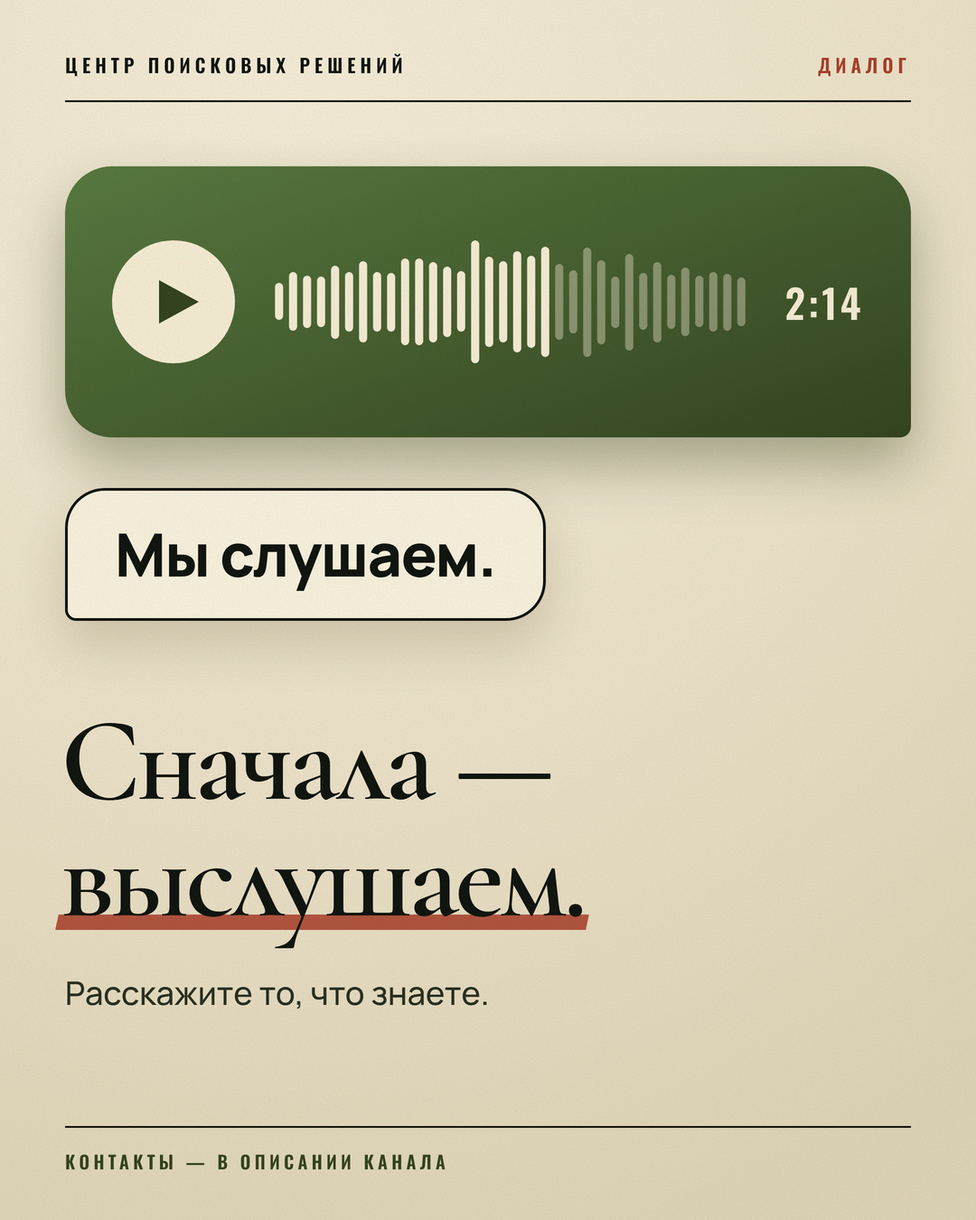
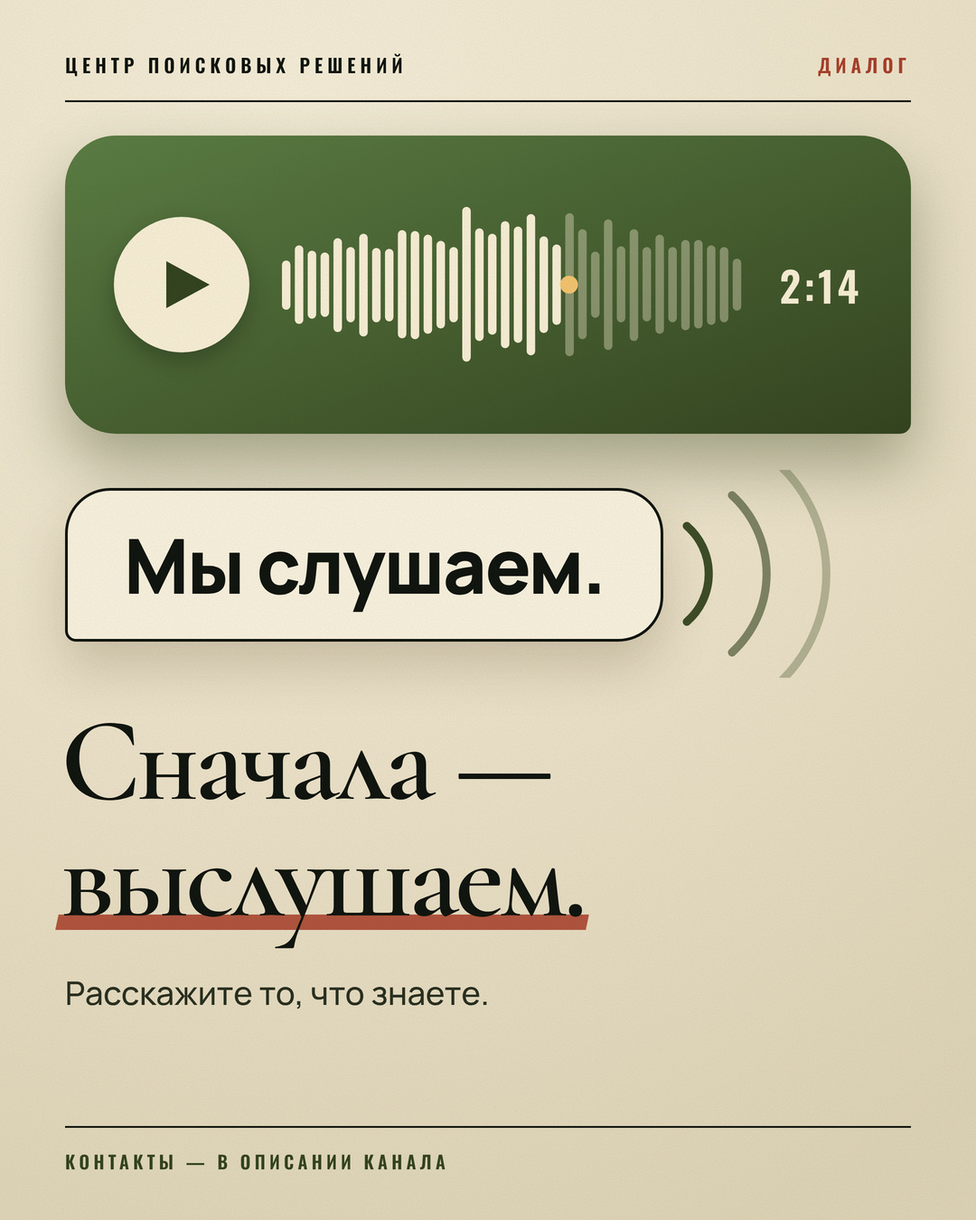
Rework phone/route/listen post heroes: full cards, edge-stopped arrows, voice message with listening waves
Claude-Session: https://claude.ai/code/session_01NuJDMPrCwZ36H1xaabvcxP

diff --git a/psr-promo/src/paper_route.html b/psr-promo/src/paper_route.html
@@ -15,16 +15,10 @@ h1 u:after{content:"";position:absolute;left:-4px;right:-4px;bottom:8px;height:1
 .tex{position:absolute;inset:0;mix-blend-mode:multiply;opacity:.5;pointer-events:none}
 .card{position:absolute;background:var(--card);box-shadow:0 2px 0 rgba(255,255,255,.7) inset,0 26px 60px rgba(70,56,20,.22),0 3px 8px rgba(70,56,20,.16)}
 
-svg.rt{position:absolute;left:0;top:110px;width:1080px;height:660px}
+svg.rt{position:absolute;left:0;top:128px;width:1080px;height:680px}
 </style></head><body><div class="post" id="post">
 <div class="top"><span>ЦЕНТР ПОИСКОВЫХ РЕШЕНИЙ</span><span>МАРШРУТ</span></div>
-<svg class="rt" viewBox="0 0 1080 660"><defs>
-<filter id="st" x="-10%" y="-10%" width="120%" height="120%"><feTurbulence type="fractalNoise" baseFrequency=".035" numOctaves="2" seed="2" result="w"/><feDisplacementMap in="SourceGraphic" in2="w" scale="5" result="d"/><feTurbulence type="fractalNoise" baseFrequency=".8" numOctaves="2" seed="9" result="n"/><feColorMatrix in="n" type="matrix" values="0 0 0 0 0  0 0 0 0 0  0 0 0 0 0  0 0 0 -9 6.4" result="m"/><feComposite in="d" in2="m" operator="in"/></filter>
-<marker id="ar" markerWidth="14" markerHeight="14" refX="10" refY="7" orient="auto"><path d="M1 1l11 6-11 6" fill="none" stroke="#34441f" stroke-width="2.6" stroke-linecap="round" stroke-linejoin="round"/></marker>
-<path id="c1" d="M0 0m-108 0a108 108 0 1 1 216 0"/></defs>
-<path d="M330 120C460 90 400 250 440 290" fill="none" stroke="#34441f" stroke-width="5" stroke-dasharray="2 16" stroke-linecap="round" marker-end="url(#ar)"/>
-<path d="M690 330C790 330 760 440 800 470" fill="none" stroke="#34441f" stroke-width="5" stroke-dasharray="2 16" stroke-linecap="round" marker-end="url(#ar)"/>
-<g filter="url(#st)"><g transform="translate(190 180) rotate(-9)" fill="none" stroke="#34441f"><circle r="150" stroke-width="9"/><circle r="132" stroke-width="3"/><circle r="70" stroke-width="3"/><text font-family="Oswald" font-weight="600" font-size="23" letter-spacing="3" fill="#34441f" stroke="none" text-anchor="middle"><textPath href="#c1" startOffset="50%">КОМАНДОВАНИЕ ЧАСТИ</textPath></text><text y="32" text-anchor="middle" font-family="Cormorant Garamond" font-weight="700" font-size="108" fill="#34441f" stroke="none">1</text><text y="116" text-anchor="middle" font-family="Oswald" font-size="24" letter-spacing="8" fill="#34441f" stroke="none">★ ★ ★</text></g><g transform="translate(560 400) rotate(6)" fill="none" stroke="#34441f"><circle r="150" stroke-width="9"/><circle r="132" stroke-width="3"/><circle r="70" stroke-width="3"/><text font-family="Oswald" font-weight="600" font-size="23" letter-spacing="3" fill="#34441f" stroke="none" text-anchor="middle"><textPath href="#c1" startOffset="50%">ВОЕННЫЙ КОМИССАРИАТ</textPath></text><text y="32" text-anchor="middle" font-family="Cormorant Garamond" font-weight="700" font-size="108" fill="#34441f" stroke="none">2</text><text y="116" text-anchor="middle" font-family="Oswald" font-size="24" letter-spacing="8" fill="#34441f" stroke="none">★ ★ ★</text></g><g transform="translate(884 548) rotate(-5)" fill="none" stroke="#a8412b"><circle r="150" stroke-width="9"/><circle r="132" stroke-width="3"/><circle r="70" stroke-width="3"/><text font-family="Oswald" font-weight="600" font-size="23" letter-spacing="3" fill="#a8412b" stroke="none" text-anchor="middle"><textPath href="#c1" startOffset="50%">КОПИИ — СЕБЕ</textPath></text><text y="32" text-anchor="middle" font-family="Cormorant Garamond" font-weight="700" font-size="108" fill="#a8412b" stroke="none">3</text><text y="116" text-anchor="middle" font-family="Oswald" font-size="24" letter-spacing="8" fill="#a8412b" stroke="none">★ ★ ★</text></g></g></svg>
+<svg class="rt" viewBox="0 0 1080 680"><defs><filter id="st" x="-10%" y="-10%" width="120%" height="120%"><feTurbulence type="fractalNoise" baseFrequency=".035" numOctaves="2" seed="2" result="w"/><feDisplacementMap in="SourceGraphic" in2="w" scale="5" result="d"/><feTurbulence type="fractalNoise" baseFrequency=".8" numOctaves="2" seed="9" result="n"/><feColorMatrix in="n" type="matrix" values="0 0 0 0 0  0 0 0 0 0  0 0 0 0 0  0 0 0 -9 6.4" result="m"/><feComposite in="d" in2="m" operator="in"/></filter><path id="c1" d="M0 0m-100 0a100 100 0 1 1 200 0"/></defs><path d="M340 227Q362 276 392 262" fill="none" stroke="#34441f" stroke-width="5.5" stroke-dasharray="1 15" stroke-linecap="round"/><path d="M410 253L393 277L381 252Z" fill="#34441f"/><path d="M712 385Q702 423 714 408" fill="none" stroke="#34441f" stroke-width="5.5" stroke-dasharray="1 15" stroke-linecap="round"/><path d="M727 392L721 421L699 404Z" fill="#34441f"/><g filter="url(#st)"><g transform="translate(190 172) rotate(-8)" fill="none" stroke="#34441f"><circle r="140" stroke-width="9"/><circle r="123" stroke-width="3"/><circle r="64" stroke-width="3"/><text font-family="Oswald" font-weight="600" font-size="23" letter-spacing="3" fill="#34441f" stroke="none" text-anchor="middle"><textPath href="#c1" startOffset="50%">КОМАНДОВАНИЕ ЧАСТИ</textPath></text><text y="32" text-anchor="middle" font-family="Cormorant Garamond" font-weight="700" font-size="104" fill="#34441f" stroke="none">1</text><text y="108" text-anchor="middle" font-family="Oswald" font-size="22" letter-spacing="8" fill="#34441f" stroke="none">★ ★ ★</text></g><g transform="translate(570 312) rotate(5)" fill="none" stroke="#34441f"><circle r="140" stroke-width="9"/><circle r="123" stroke-width="3"/><circle r="64" stroke-width="3"/><text font-family="Oswald" font-weight="600" font-size="23" letter-spacing="3" fill="#34441f" stroke="none" text-anchor="middle"><textPath href="#c1" startOffset="50%">ВОЕННЫЙ КОМИССАРИАТ</textPath></text><text y="32" text-anchor="middle" font-family="Cormorant Garamond" font-weight="700" font-size="104" fill="#34441f" stroke="none">2</text><text y="108" text-anchor="middle" font-family="Oswald" font-size="22" letter-spacing="8" fill="#34441f" stroke="none">★ ★ ★</text></g><g transform="translate(878 470) rotate(-5)" fill="none" stroke="#a8412b"><circle r="140" stroke-width="9"/><circle r="123" stroke-width="3"/><circle r="64" stroke-width="3"/><text font-family="Oswald" font-weight="600" font-size="23" letter-spacing="3" fill="#a8412b" stroke="none" text-anchor="middle"><textPath href="#c1" startOffset="50%">КОПИИ — СЕБЕ</textPath></text><text y="32" text-anchor="middle" font-family="Cormorant Garamond" font-weight="700" font-size="104" fill="#a8412b" stroke="none">3</text><text y="108" text-anchor="middle" font-family="Oswald" font-size="22" letter-spacing="8" fill="#a8412b" stroke="none">★ ★ ★</text></g></g></svg>
 <h1><span>Официальный</span><span><u>путь.</u></span></h1>
 <div class="sub">Письменно — и копию оставьте себе.</div>
 <div class="foot">КОНТАКТЫ — В ОПИСАНИИ КАНАЛА</div><svg class="tex" width="1080" height="1350"><filter id="n"><feTurbulence type="fractalNoise" baseFrequency=".75" numOctaves="3" seed="3"/><feColorMatrix values="0 0 0 0 .55  0 0 0 0 .5  0 0 0 0 .4  0 0 0 .5 -.08"/></filter><rect width="100%" height="100%" filter="url(#n)"/></svg></div></body></html>

diff --git a/psr-promo/src/paper_phone.html b/psr-promo/src/paper_phone.html
@@ -15,21 +15,20 @@ h1 u:after{content:"";position:absolute;left:-4px;right:-4px;bottom:8px;height:1
 .tex{position:absolute;inset:0;mix-blend-mode:multiply;opacity:.5;pointer-events:none}
 .card{position:absolute;background:var(--card);box-shadow:0 2px 0 rgba(255,255,255,.7) inset,0 26px 60px rgba(70,56,20,.22),0 3px 8px rgba(70,56,20,.16)}
 
-.fan{position:absolute;left:0;top:0;width:1080px;height:780px}
-.c{position:absolute;top:196px;width:340px;height:480px;transform-origin:50% 100%;border-radius:22px;background:var(--card);box-shadow:0 2px 0 rgba(255,255,255,.8) inset,0 30px 60px rgba(70,56,20,.24),0 4px 10px rgba(70,56,20,.16);padding:30px;overflow:hidden}
-.c .t{position:absolute;left:28px;top:26px;font:600 24px Oswald;letter-spacing:.24em;color:var(--olive)}
-.c svg{width:100%;margin-top:46px}
-.c1{left:60px;top:218px;transform:rotate(-8deg)}.c2{left:267px;top:196px;transform:rotate(-2.5deg)}.c3{left:473px;top:196px;transform:rotate(2.5deg)}.c4{left:680px;top:218px;transform:rotate(8deg)}
-.tp{position:absolute;left:50%;top:178px;width:130px;height:38px;margin-left:-65px;background:rgba(214,196,142,.75);transform:rotate(-3deg);z-index:9}
+.k{position:absolute;width:440px;height:296px;border-radius:16px;padding:24px 28px}
+.k .t{font:600 24px Oswald;letter-spacing:.26em;color:var(--olive)}
+.k1{left:72px;top:146px;transform:rotate(-1.8deg)}.k2{left:568px;top:136px;transform:rotate(1.6deg)}
+.k3{left:72px;top:462px;transform:rotate(1.4deg)}.k4{left:568px;top:452px;transform:rotate(-1.5deg)}
+.k svg{position:absolute;left:0;top:0;width:100%;height:100%}
+.tp{position:absolute;width:128px;height:36px;background:rgba(214,196,142,.78);z-index:9}
 </style></head><body><div class="post" id="post">
 <div class="top"><span>ЦЕНТР ПОИСКОВЫХ РЕШЕНИЙ</span><span>ПАМЯТКА</span></div>
-<div class="fan">
-<div class="c c1"><svg viewBox="0 0 312 380"><circle cx="156" cy="150" r="104" fill="none" stroke="#11150f" stroke-width="8"/><path d="M156 84v70l44 28" fill="none" stroke="#11150f" stroke-width="9" stroke-linecap="round"/><circle cx="156" cy="150" r="124" fill="none" stroke="#a8412b" stroke-width="5" stroke-dasharray="3 14" stroke-linecap="round"/></svg><div class="t">ВИЗИТ</div></div>
-<div class="c c2"><svg viewBox="0 0 312 380"><circle cx="64" cy="124" r="44" fill="#34441f"/><path d="M52 104l34 20-34 20z" fill="#f4ecd4"/><g id="wv"></g></svg><div class="t">ГОЛОСОВЫЕ</div></div>
-<div class="c c3"><svg viewBox="0 0 312 380"><rect x="0" y="40" width="312" height="250" rx="12" fill="#cfd9b8"/><circle cx="226" cy="108" r="26" fill="#f2c46f"/><path d="M0 290V200l70-60 60 50 60-76 122 100v76z" fill="#34441f"/></svg><div class="t">ФОТО</div></div>
-<div class="c c4"><svg viewBox="0 0 312 380"><g fill="#34441f"><circle cx="46" cy="70" r="30"/><circle cx="46" cy="160" r="30"/><circle cx="46" cy="250" r="30"/></g><g fill="#11150f"><rect x="96" y="56" width="190" height="16" rx="8"/><rect x="96" y="146" width="150" height="16" rx="8"/><rect x="96" y="236" width="176" height="16" rx="8"/></g><g fill="#a9a58a"><rect x="96" y="84" width="110" height="12" rx="6"/><rect x="96" y="174" width="90" height="12" rx="6"/><rect x="96" y="264" width="120" height="12" rx="6"/></g></svg><div class="t">КОНТАКТЫ</div></div>
-<div class="tp"></div></div>
-<script>let h="",s=11;const r=()=>((s=(s*1664525+1013904223)>>>0)/4294967296);for(let i=0;i<22;i++){const x=22+i*13.2,a=18+Math.abs(Math.sin(i*.55))*70*(.5+r()*.8);h+=`<rect x="${x}" y="${(250-a/2).toFixed(0)}" width="7" height="${a.toFixed(0)}" rx="3.5" fill="#11150f"/>`}document.getElementById("wv").innerHTML=h;</script>
+<div class="card k k1"><div class="t">ВИЗИТ</div><svg viewBox="0 0 440 296"><circle cx="220" cy="168" r="86" fill="none" stroke="#11150f" stroke-width="8"/><path d="M220 112v58l38 24" fill="none" stroke="#11150f" stroke-width="8" stroke-linecap="round"/><circle cx="220" cy="168" r="108" fill="none" stroke="#a8412b" stroke-width="5" stroke-dasharray="2 14" stroke-linecap="round"/></svg></div>
+<div class="card k k2"><div class="t">ГОЛОСОВЫЕ</div><svg viewBox="0 0 440 296"><circle cx="86" cy="170" r="42" fill="#34441f"/><path d="M76 150l32 20-32 20z" fill="#f4ecd4"/><g id="wv"></g></svg></div>
+<div class="card k k3"><div class="t">ФОТО</div><svg viewBox="0 0 440 296"><rect x="28" y="64" width="384" height="204" rx="6" fill="#fffaf0" stroke="rgba(17,21,15,.12)"/><rect x="42" y="78" width="356" height="176" fill="#cbd8b4"/><circle cx="318" cy="128" r="22" fill="#f2c46f"/><path d="M42 254V186l80-62 70 54 66-82 140 112v46z" fill="#34441f"/></svg></div>
+<div class="card k k4"><div class="t">КОНТАКТЫ</div><svg viewBox="0 0 440 296"><g fill="#34441f"><circle cx="64" cy="124" r="26"/><circle cx="64" cy="190" r="26"/><circle cx="64" cy="256" r="26"/></g><g fill="#11150f"><rect x="110" y="112" width="250" height="16" rx="8"/><rect x="110" y="178" width="200" height="16" rx="8"/><rect x="110" y="244" width="230" height="16" rx="8"/></g><g fill="#aaa68c"><rect x="110" y="136" width="140" height="11" rx="5.5"/><rect x="110" y="202" width="110" height="11" rx="5.5"/><rect x="110" y="268" width="150" height="11" rx="5.5"/></g></svg></div>
+<div class="tp" style="left:240px;top:448px;transform:rotate(-3deg)"></div><div class="tp" style="left:748px;top:122px;transform:rotate(4deg)"></div>
+<script>let h="",s=11;const r=()=>((s=(s*1664525+1013904223)>>>0)/4294967296);for(let i=0;i<24;i++){const x=150+i*11.4,a=20+Math.abs(Math.sin(i*.5))*84*(.45+r()*.7);h+=`<rect x="${x.toFixed(0)}" y="${(170-a/2).toFixed(0)}" width="6.4" height="${a.toFixed(0)}" rx="3.2" fill="#11150f"/>`}document.getElementById("wv").innerHTML=h;</script>
 <h1><span>Следы</span><span><u>в телефоне.</u></span></h1>
 <div class="sub">Сохраните, пока ничего не удалилось.</div>
 <div class="foot">КОНТАКТЫ — В ОПИСАНИИ КАНАЛА</div><svg class="tex" width="1080" height="1350"><filter id="n"><feTurbulence type="fractalNoise" baseFrequency=".75" numOctaves="3" seed="3"/><feColorMatrix values="0 0 0 0 .55  0 0 0 0 .5  0 0 0 0 .4  0 0 0 .5 -.08"/></filter><rect width="100%" height="100%" filter="url(#n)"/></svg></div></body></html>

diff --git a/psr-promo/src/paper_listen.html b/psr-promo/src/paper_listen.html
@@ -15,17 +15,19 @@ h1 u:after{content:"";position:absolute;left:-4px;right:-4px;bottom:8px;height:1
 .tex{position:absolute;inset:0;mix-blend-mode:multiply;opacity:.5;pointer-events:none}
 .card{position:absolute;background:var(--card);box-shadow:0 2px 0 rgba(255,255,255,.7) inset,0 26px 60px rgba(70,56,20,.22),0 3px 8px rgba(70,56,20,.16)}
 
-.v{left:72px;right:72px;top:184px;height:300px;border-radius:52px 52px 12px 52px;background:linear-gradient(160deg,#587a41,#34441f);box-shadow:0 30px 60px rgba(52,68,31,.38);display:flex;align-items:center;gap:36px;padding:0 52px}
-.pl{flex:none;width:136px;height:136px;border-radius:50%;background:#f4ecd4;display:grid;place-items:center}
-.pl svg{width:56px;height:56px;margin-left:8px}
-.wf{flex:1;height:170px}
-.du{flex:none;font:600 44px Oswald;letter-spacing:.08em;color:#f4ecd4}
-.rp{left:72px;top:540px;padding:34px 52px;border-radius:44px 44px 44px 12px;background:var(--card);border:3px solid var(--ink);font:800 66px/1.1 Manrope;letter-spacing:-.02em;box-shadow:0 26px 54px rgba(70,56,20,.18)}
+.v{left:72px;right:72px;top:150px;height:330px;border-radius:56px 56px 12px 56px;background:linear-gradient(160deg,#5b7e44,#34441f);box-shadow:0 34px 70px rgba(52,68,31,.4);display:flex;align-items:center;gap:36px;padding:0 54px}
+.pl{flex:none;width:150px;height:150px;border-radius:50%;background:#f6eed6;display:grid;place-items:center;box-shadow:0 10px 24px rgba(0,0,0,.25)}
+.pl svg{width:60px;height:60px;margin-left:10px}
+.wf{flex:1;height:220px}
+.du{flex:none;font:600 46px Oswald;letter-spacing:.08em;color:#f6eed6}
+.rp{left:72px;top:540px;padding:38px 62px;border-radius:50px 50px 50px 12px;background:var(--card);border:3.5px solid var(--ink);font:800 84px/1.05 Manrope;letter-spacing:-.025em;box-shadow:0 28px 56px rgba(70,56,20,.2)}
+svg.wv{position:absolute;left:700px;top:520px;width:320px;height:230px}
 </style></head><body><div class="post" id="post">
 <div class="top"><span>ЦЕНТР ПОИСКОВЫХ РЕШЕНИЙ</span><span>ДИАЛОГ</span></div>
-<div class="v card"><div class="pl"><svg viewBox="0 0 56 56"><path d="M8 4l44 24L8 52z" fill="#34441f"/></svg></div><svg class="wf" id="wf" viewBox="0 0 520 170"></svg><div class="du">2:14</div></div>
+<div class="v card"><div class="pl"><svg viewBox="0 0 60 60"><path d="M8 4l48 26L8 56z" fill="#34441f"/></svg></div><svg class="wf" id="wf" viewBox="0 0 520 220"></svg><div class="du">2:14</div></div>
 <div class="rp card">Мы слушаем.</div>
-<script>let h="",s=17;const r=()=>((s=(s*1664525+1013904223)>>>0)/4294967296);for(let i=0;i<34;i++){const e=Math.sin(i/33*Math.PI)*.65+.35,a=18+e*130*(.35+r()*.65);h+=`<rect x="${i*15.5}" y="${(85-a/2).toFixed(0)}" width="9" height="${a.toFixed(0)}" rx="4.5" fill="${i<20?'#f4ecd4':'rgba(244,236,212,.4)'}"/>`}document.getElementById("wf").innerHTML=h;</script>
+<svg class="wv" viewBox="0 0 320 230" fill="none" stroke="#34441f" stroke-linecap="round" stroke-width="9"><path d="M60 62a70 70 0 0 1 0 106" opacity=".95"/><path d="M110 28a118 118 0 0 1 0 174" opacity=".6"/><path d="M162 -6a166 166 0 0 1 0 242" opacity=".3"/></svg>
+<script>let h="",s=17;const r=()=>((s=(s*1664525+1013904223)>>>0)/4294967296);for(let i=0;i<36;i++){const e=Math.sin(i/35*Math.PI)*.6+.4,a=20+e*170*(.35+r()*.65),x=i*14.4;h+=`<rect x="${x.toFixed(1)}" y="${(110-a/2).toFixed(0)}" width="9.5" height="${a.toFixed(0)}" rx="4.75" fill="${i<22?'#f6eed6':'rgba(246,238,214,.38)'}"/>`}h+=`<circle cx="${(22*14.4+4).toFixed(0)}" cy="110" r="10" fill="#f2c46f"/>`;document.getElementById("wf").innerHTML=h;</script>
 <h1><span>Сначала —</span><span><u>выслушаем.</u></span></h1>
 <div class="sub">Расскажите то, что знаете.</div>
 <div class="foot">КОНТАКТЫ — В ОПИСАНИИ КАНАЛА</div><svg class="tex" width="1080" height="1350"><filter id="n"><feTurbulence type="fractalNoise" baseFrequency=".75" numOctaves="3" seed="3"/><feColorMatrix values="0 0 0 0 .55  0 0 0 0 .5  0 0 0 0 .4  0 0 0 .5 -.08"/></filter><rect width="100%" height="100%" filter="url(#n)"/></svg></div></body></html>

diff --git a/psr-promo/tools/make_papers.py b/psr-promo/tools/make_papers.py
@@ -43,37 +43,41 @@ svg.mk{position:absolute;inset:0;pointer-events:none;overflow:visible}
 '<div class="card msg" id="note"><small>НЕЗНАКОМЫЙ НОМЕР</small><p>Здравствуйте! Мы <span class="m">гарантированно найдём</span> вашего бойца. Решать нужно <span class="m">срочно, сегодня</span>. У нас <span class="m">закрытый доступ</span> к данным.</p></div><svg class="mk" id="mk" width="1080" height="1350"></svg><script>'+FLAGS_JS+'</script>',
 "Три тревожных","знака.","Честная помощь так не говорит.")
 
-# 2 — traces: a fan of evidence cards
+# 2 — traces: four evidence cards, fully visible
 page("phone","ПАМЯТКА","""
-.fan{position:absolute;left:0;top:0;width:1080px;height:780px}
-.c{position:absolute;top:196px;width:340px;height:480px;transform-origin:50% 100%;border-radius:22px;background:var(--card);box-shadow:0 2px 0 rgba(255,255,255,.8) inset,0 30px 60px rgba(70,56,20,.24),0 4px 10px rgba(70,56,20,.16);padding:30px;overflow:hidden}
-.c .t{position:absolute;left:28px;top:26px;font:600 24px Oswald;letter-spacing:.24em;color:var(--olive)}
-.c svg{width:100%;margin-top:46px}
-.c1{left:60px;top:218px;transform:rotate(-8deg)}.c2{left:267px;top:196px;transform:rotate(-2.5deg)}.c3{left:473px;top:196px;transform:rotate(2.5deg)}.c4{left:680px;top:218px;transform:rotate(8deg)}
-.tp{position:absolute;left:50%;top:178px;width:130px;height:38px;margin-left:-65px;background:rgba(214,196,142,.75);transform:rotate(-3deg);z-index:9}
+.k{position:absolute;width:440px;height:296px;border-radius:16px;padding:24px 28px}
+.k .t{font:600 24px Oswald;letter-spacing:.26em;color:var(--olive)}
+.k1{left:72px;top:146px;transform:rotate(-1.8deg)}.k2{left:568px;top:136px;transform:rotate(1.6deg)}
+.k3{left:72px;top:462px;transform:rotate(1.4deg)}.k4{left:568px;top:452px;transform:rotate(-1.5deg)}
+.k svg{position:absolute;left:0;top:0;width:100%;height:100%}
+.tp{position:absolute;width:128px;height:36px;background:rgba(214,196,142,.78);z-index:9}
 """,
-'''<div class="fan">
-<div class="c c1"><svg viewBox="0 0 312 380"><circle cx="156" cy="150" r="104" fill="none" stroke="#11150f" stroke-width="8"/><path d="M156 84v70l44 28" fill="none" stroke="#11150f" stroke-width="9" stroke-linecap="round"/><circle cx="156" cy="150" r="124" fill="none" stroke="#a8412b" stroke-width="5" stroke-dasharray="3 14" stroke-linecap="round"/></svg><div class="t">ВИЗИТ</div></div>
-<div class="c c2"><svg viewBox="0 0 312 380"><circle cx="64" cy="124" r="44" fill="#34441f"/><path d="M52 104l34 20-34 20z" fill="#f4ecd4"/><g id="wv"></g></svg><div class="t">ГОЛОСОВЫЕ</div></div>
-<div class="c c3"><svg viewBox="0 0 312 380"><rect x="0" y="40" width="312" height="250" rx="12" fill="#cfd9b8"/><circle cx="226" cy="108" r="26" fill="#f2c46f"/><path d="M0 290V200l70-60 60 50 60-76 122 100v76z" fill="#34441f"/></svg><div class="t">ФОТО</div></div>
-<div class="c c4"><svg viewBox="0 0 312 380"><g fill="#34441f"><circle cx="46" cy="70" r="30"/><circle cx="46" cy="160" r="30"/><circle cx="46" cy="250" r="30"/></g><g fill="#11150f"><rect x="96" y="56" width="190" height="16" rx="8"/><rect x="96" y="146" width="150" height="16" rx="8"/><rect x="96" y="236" width="176" height="16" rx="8"/></g><g fill="#a9a58a"><rect x="96" y="84" width="110" height="12" rx="6"/><rect x="96" y="174" width="90" height="12" rx="6"/><rect x="96" y="264" width="120" height="12" rx="6"/></g></svg><div class="t">КОНТАКТЫ</div></div>
-<div class="tp"></div></div>
-<script>let h="",s=11;const r=()=>((s=(s*1664525+1013904223)>>>0)/4294967296);for(let i=0;i<22;i++){const x=22+i*13.2,a=18+Math.abs(Math.sin(i*.55))*70*(.5+r()*.8);h+=`<rect x="${x}" y="${(250-a/2).toFixed(0)}" width="7" height="${a.toFixed(0)}" rx="3.5" fill="#11150f"/>`}document.getElementById("wv").innerHTML=h;</script>''',
+'''<div class="card k k1"><div class="t">ВИЗИТ</div><svg viewBox="0 0 440 296"><circle cx="220" cy="168" r="86" fill="none" stroke="#11150f" stroke-width="8"/><path d="M220 112v58l38 24" fill="none" stroke="#11150f" stroke-width="8" stroke-linecap="round"/><circle cx="220" cy="168" r="108" fill="none" stroke="#a8412b" stroke-width="5" stroke-dasharray="2 14" stroke-linecap="round"/></svg></div>
+<div class="card k k2"><div class="t">ГОЛОСОВЫЕ</div><svg viewBox="0 0 440 296"><circle cx="86" cy="170" r="42" fill="#34441f"/><path d="M76 150l32 20-32 20z" fill="#f4ecd4"/><g id="wv"></g></svg></div>
+<div class="card k k3"><div class="t">ФОТО</div><svg viewBox="0 0 440 296"><rect x="28" y="64" width="384" height="204" rx="6" fill="#fffaf0" stroke="rgba(17,21,15,.12)"/><rect x="42" y="78" width="356" height="176" fill="#cbd8b4"/><circle cx="318" cy="128" r="22" fill="#f2c46f"/><path d="M42 254V186l80-62 70 54 66-82 140 112v46z" fill="#34441f"/></svg></div>
+<div class="card k k4"><div class="t">КОНТАКТЫ</div><svg viewBox="0 0 440 296"><g fill="#34441f"><circle cx="64" cy="124" r="26"/><circle cx="64" cy="190" r="26"/><circle cx="64" cy="256" r="26"/></g><g fill="#11150f"><rect x="110" y="112" width="250" height="16" rx="8"/><rect x="110" y="178" width="200" height="16" rx="8"/><rect x="110" y="244" width="230" height="16" rx="8"/></g><g fill="#aaa68c"><rect x="110" y="136" width="140" height="11" rx="5.5"/><rect x="110" y="202" width="110" height="11" rx="5.5"/><rect x="110" y="268" width="150" height="11" rx="5.5"/></g></svg></div>
+<div class="tp" style="left:240px;top:448px;transform:rotate(-3deg)"></div><div class="tp" style="left:748px;top:122px;transform:rotate(4deg)"></div>
+<script>let h="",s=11;const r=()=>((s=(s*1664525+1013904223)>>>0)/4294967296);for(let i=0;i<24;i++){const x=150+i*11.4,a=20+Math.abs(Math.sin(i*.5))*84*(.45+r()*.7);h+=`<rect x="${x.toFixed(0)}" y="${(170-a/2).toFixed(0)}" width="6.4" height="${a.toFixed(0)}" rx="3.2" fill="#11150f"/>`}document.getElementById("wv").innerHTML=h;</script>''',
 "Следы","в телефоне.","Сохраните, пока ничего не удалилось.")
 
-# 3 — route: three big rubber stamps joined by a dashed path
+# 3 — route: three big rubber stamps joined by dashed arrows that stop at the stamp edges
+import math
+R=140
+C=[(190,172,-8,"#34441f","КОМАНДОВАНИЕ ЧАСТИ",1),(570,312,5,"#34441f","ВОЕННЫЙ КОМИССАРИАТ",2),(878,470,-5,"#a8412b","КОПИИ — СЕБЕ",3)]
 def stamp(x,y,rot,col,txt,num):
-    return f'''<g transform="translate({x} {y}) rotate({rot})" fill="none" stroke="{col}"><circle r="150" stroke-width="9"/><circle r="132" stroke-width="3"/><circle r="70" stroke-width="3"/><text font-family="Oswald" font-weight="600" font-size="23" letter-spacing="3" fill="{col}" stroke="none" text-anchor="middle"><textPath href="#c1" startOffset="50%">{txt}</textPath></text><text y="32" text-anchor="middle" font-family="Cormorant Garamond" font-weight="700" font-size="108" fill="{col}" stroke="none">{num}</text><text y="116" text-anchor="middle" font-family="Oswald" font-size="24" letter-spacing="8" fill="{col}" stroke="none">★ ★ ★</text></g>'''
+    return f'''<g transform="translate({x} {y}) rotate({rot})" fill="none" stroke="{col}"><circle r="{R}" stroke-width="9"/><circle r="{R-17}" stroke-width="3"/><circle r="64" stroke-width="3"/><text font-family="Oswald" font-weight="600" font-size="23" letter-spacing="3" fill="{col}" stroke="none" text-anchor="middle"><textPath href="#c1" startOffset="50%">{txt}</textPath></text><text y="32" text-anchor="middle" font-family="Cormorant Garamond" font-weight="700" font-size="104" fill="{col}" stroke="none">{num}</text><text y="108" text-anchor="middle" font-family="Oswald" font-size="22" letter-spacing="8" fill="{col}" stroke="none">★ ★ ★</text></g>'''
+def arrow(a,b):
+    (x1,y1),(x2,y2)=a[:2],b[:2]; d=math.hypot(x2-x1,y2-y1); ux,uy=(x2-x1)/d,(y2-y1)/d
+    sx,sy=x1+ux*(R+20),y1+uy*(R+20); ex,ey=x2-ux*(R+30),y2-uy*(R+30)
+    mx,my=(sx+ex)/2-uy*38,(sy+ey)/2+ux*38
+    tx,ty=ex-mx,ey-my; tl=math.hypot(tx,ty); tx,ty=tx/tl,ty/tl
+    p1=(ex-tx*26-ty*14,ey-ty*26+tx*14); p2=(ex-tx*26+ty*14,ey-ty*26-tx*14)
+    return f'<path d="M{sx:.0f} {sy:.0f}Q{mx:.0f} {my:.0f} {ex-tx*20:.0f} {ey-ty*20:.0f}" fill="none" stroke="#34441f" stroke-width="5.5" stroke-dasharray="1 15" stroke-linecap="round"/><path d="M{ex:.0f} {ey:.0f}L{p1[0]:.0f} {p1[1]:.0f}L{p2[0]:.0f} {p2[1]:.0f}Z" fill="#34441f"/>'
+ROUTE=''.join(arrow(C[i],C[i+1]) for i in range(2))+'<g filter="url(#st)">'+''.join(stamp(*c) for c in C)+'</g>'
 page("route","МАРШРУТ","""
-svg.rt{position:absolute;left:0;top:110px;width:1080px;height:660px}
+svg.rt{position:absolute;left:0;top:128px;width:1080px;height:680px}
 """,
-'''<svg class="rt" viewBox="0 0 1080 660"><defs>
-<filter id="st" x="-10%" y="-10%" width="120%" height="120%"><feTurbulence type="fractalNoise" baseFrequency=".035" numOctaves="2" seed="2" result="w"/><feDisplacementMap in="SourceGraphic" in2="w" scale="5" result="d"/><feTurbulence type="fractalNoise" baseFrequency=".8" numOctaves="2" seed="9" result="n"/><feColorMatrix in="n" type="matrix" values="0 0 0 0 0  0 0 0 0 0  0 0 0 0 0  0 0 0 -9 6.4" result="m"/><feComposite in="d" in2="m" operator="in"/></filter>
-<marker id="ar" markerWidth="14" markerHeight="14" refX="10" refY="7" orient="auto"><path d="M1 1l11 6-11 6" fill="none" stroke="#34441f" stroke-width="2.6" stroke-linecap="round" stroke-linejoin="round"/></marker>
-<path id="c1" d="M0 0m-108 0a108 108 0 1 1 216 0"/></defs>
-<path d="M330 120C460 90 400 250 440 290" fill="none" stroke="#34441f" stroke-width="5" stroke-dasharray="2 16" stroke-linecap="round" marker-end="url(#ar)"/>
-<path d="M690 330C790 330 760 440 800 470" fill="none" stroke="#34441f" stroke-width="5" stroke-dasharray="2 16" stroke-linecap="round" marker-end="url(#ar)"/>
-<g filter="url(#st)">'''+stamp(190,180,-9,"#34441f","КОМАНДОВАНИЕ ЧАСТИ",1)+stamp(560,400,6,"#34441f","ВОЕННЫЙ КОМИССАРИАТ",2)+stamp(884,548,-5,"#a8412b","КОПИИ — СЕБЕ",3)+'''</g></svg>''',
+'<svg class="rt" viewBox="0 0 1080 680"><defs><filter id="st" x="-10%" y="-10%" width="120%" height="120%"><feTurbulence type="fractalNoise" baseFrequency=".035" numOctaves="2" seed="2" result="w"/><feDisplacementMap in="SourceGraphic" in2="w" scale="5" result="d"/><feTurbulence type="fractalNoise" baseFrequency=".8" numOctaves="2" seed="9" result="n"/><feColorMatrix in="n" type="matrix" values="0 0 0 0 0  0 0 0 0 0  0 0 0 0 0  0 0 0 -9 6.4" result="m"/><feComposite in="d" in2="m" operator="in"/></filter><path id="c1" d="M0 0m-100 0a100 100 0 1 1 200 0"/></defs>'+ROUTE+'</svg>',
 "Официальный","путь.","Письменно — и копию оставьте себе.")
 
 # 4 — care: a night facade, one lit window
@@ -98,17 +102,20 @@ svg.fc{position:absolute;left:0;top:0;width:1080px;height:790px;-webkit-mask-ima
 <script>let h="",sd=3;const r=()=>((sd=(sd*1664525+1013904223)>>>0)/4294967296);for(let j=0;j<3;j++)for(let i=0;i<5;i++){const x=55+i*205,y=130+j*220;if(i===3&&j===1)continue;const v=r();const f=v<.1?"#2a2f22":(v<.18?"#243038":"#1b2216");h+=`<rect x="${x}" y="${y}" width="150" height="190" fill="${f}"/><path d="M${x+75} ${y}v190M${x} ${y+95}h150" stroke="#0b0f0a" stroke-width="7"/><rect x="${x}" y="${y}" width="150" height="190" fill="none" stroke="#0b0f0a" stroke-width="9"/>`}document.getElementById("wins").innerHTML=h;</script>''',
 "Берегите себя,","пока ждёте.","Сон. Еда. Близкий человек рядом.")
 
-# 5 — listen: a huge voice message and a calm reply
+# 5 — listen: a big voice message, a calm reply and listening waves
 page("listen","ДИАЛОГ","""
-.v{left:72px;right:72px;top:184px;height:300px;border-radius:52px 52px 12px 52px;background:linear-gradient(160deg,#587a41,#34441f);box-shadow:0 30px 60px rgba(52,68,31,.38);display:flex;align-items:center;gap:36px;padding:0 52px}
-.pl{flex:none;width:136px;height:136px;border-radius:50%;background:#f4ecd4;display:grid;place-items:center}
-.pl svg{width:56px;height:56px;margin-left:8px}
-.wf{flex:1;height:170px}
-.du{flex:none;font:600 44px Oswald;letter-spacing:.08em;color:#f4ecd4}
-.rp{left:72px;top:540px;padding:34px 52px;border-radius:44px 44px 44px 12px;background:var(--card);border:3px solid var(--ink);font:800 66px/1.1 Manrope;letter-spacing:-.02em;box-shadow:0 26px 54px rgba(70,56,20,.18)}
+.v{left:72px;right:72px;top:150px;height:330px;border-radius:56px 56px 12px 56px;background:linear-gradient(160deg,#5b7e44,#34441f);box-shadow:0 34px 70px rgba(52,68,31,.4);display:flex;align-items:center;gap:36px;padding:0 54px}
+.pl{flex:none;width:150px;height:150px;border-radius:50%;background:#f6eed6;display:grid;place-items:center;box-shadow:0 10px 24px rgba(0,0,0,.25)}
+.pl svg{width:60px;height:60px;margin-left:10px}
+.wf{flex:1;height:220px}
+.du{flex:none;font:600 46px Oswald;letter-spacing:.08em;color:#f6eed6}
+.rp{left:72px;top:540px;padding:38px 62px;border-radius:50px 50px 50px 12px;background:var(--card);border:3.5px solid var(--ink);font:800 84px/1.05 Manrope;letter-spacing:-.025em;box-shadow:0 28px 56px rgba(70,56,20,.2)}
+svg.wv{position:absolute;left:700px;top:520px;width:320px;height:230px}
 """,
-'''<div class="v card"><div class="pl"><svg viewBox="0 0 56 56"><path d="M8 4l44 24L8 52z" fill="#34441f"/></svg></div><svg class="wf" id="wf" viewBox="0 0 520 170"></svg><div class="du">2:14</div></div>
+'''<div class="v card"><div class="pl"><svg viewBox="0 0 60 60"><path d="M8 4l48 26L8 56z" fill="#34441f"/></svg></div><svg class="wf" id="wf" viewBox="0 0 520 220"></svg><div class="du">2:14</div></div>
 <div class="rp card">Мы слушаем.</div>
-<script>let h="",s=17;const r=()=>((s=(s*1664525+1013904223)>>>0)/4294967296);for(let i=0;i<34;i++){const e=Math.sin(i/33*Math.PI)*.65+.35,a=18+e*130*(.35+r()*.65);h+=`<rect x="${i*15.5}" y="${(85-a/2).toFixed(0)}" width="9" height="${a.toFixed(0)}" rx="4.5" fill="${i<20?'#f4ecd4':'rgba(244,236,212,.4)'}"/>`}document.getElementById("wf").innerHTML=h;</script>''',
+<svg class="wv" viewBox="0 0 320 230" fill="none" stroke="#34441f" stroke-linecap="round" stroke-width="9"><path d="M60 62a70 70 0 0 1 0 106" opacity=".95"/><path d="M110 28a118 118 0 0 1 0 174" opacity=".6"/><path d="M162 -6a166 166 0 0 1 0 242" opacity=".3"/></svg>
+<script>let h="",s=17;const r=()=>((s=(s*1664525+1013904223)>>>0)/4294967296);for(let i=0;i<36;i++){const e=Math.sin(i/35*Math.PI)*.6+.4,a=20+e*170*(.35+r()*.65),x=i*14.4;h+=`<rect x="${x.toFixed(1)}" y="${(110-a/2).toFixed(0)}" width="9.5" height="${a.toFixed(0)}" rx="4.75" fill="${i<22?'#f6eed6':'rgba(246,238,214,.38)'}"/>`}h+=`<circle cx="${(22*14.4+4).toFixed(0)}" cy="110" r="10" fill="#f2c46f"/>`;document.getElementById("wf").innerHTML=h;</script>''',
 "Сначала —","выслушаем.","Расскажите то, что знаете.")
+
 print("ok")
